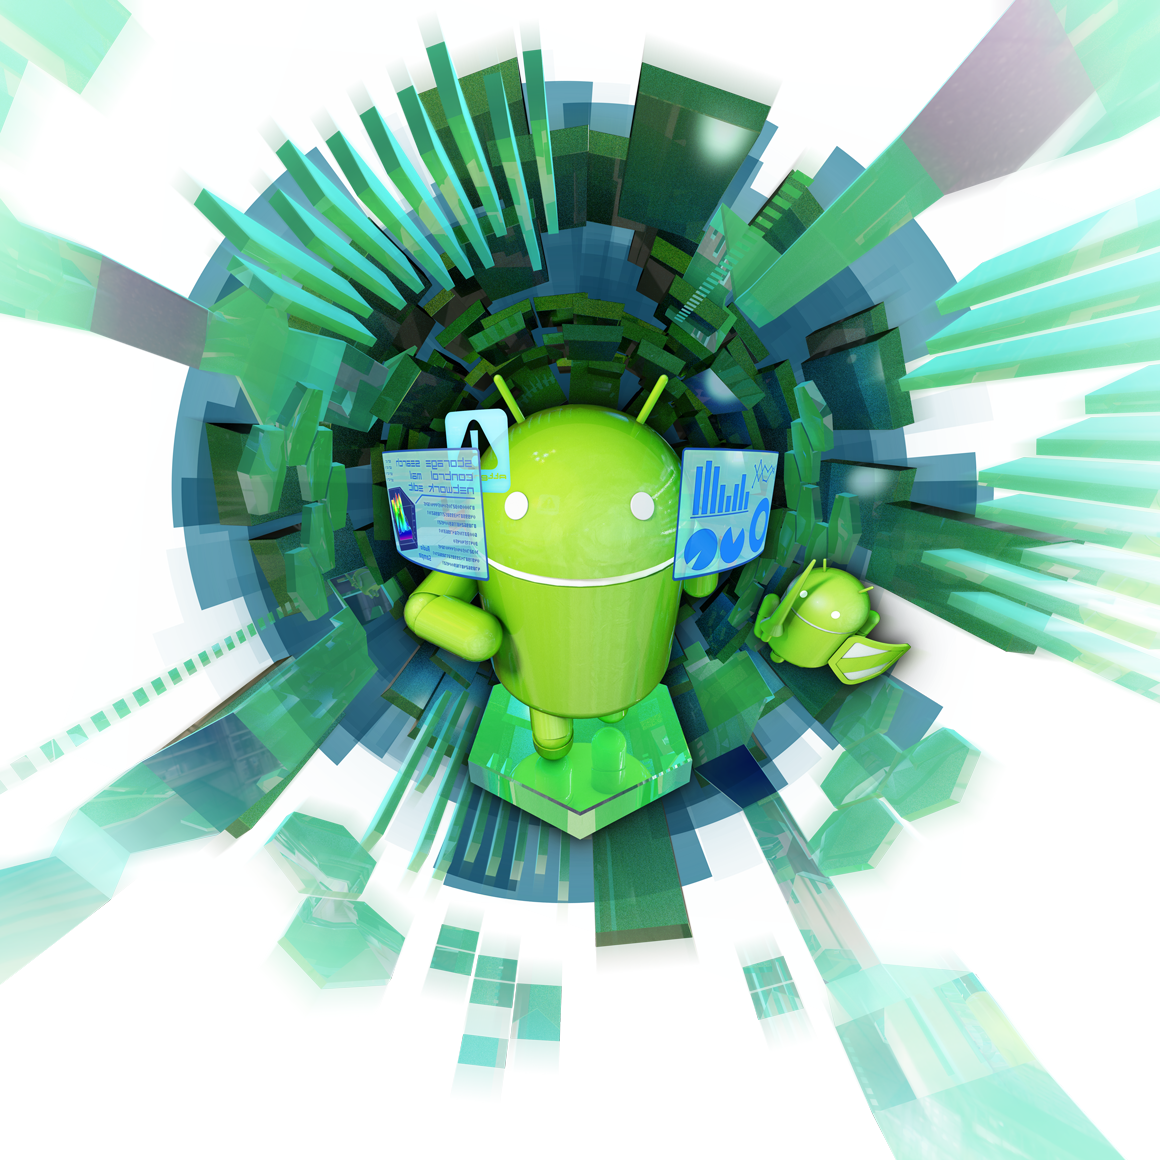
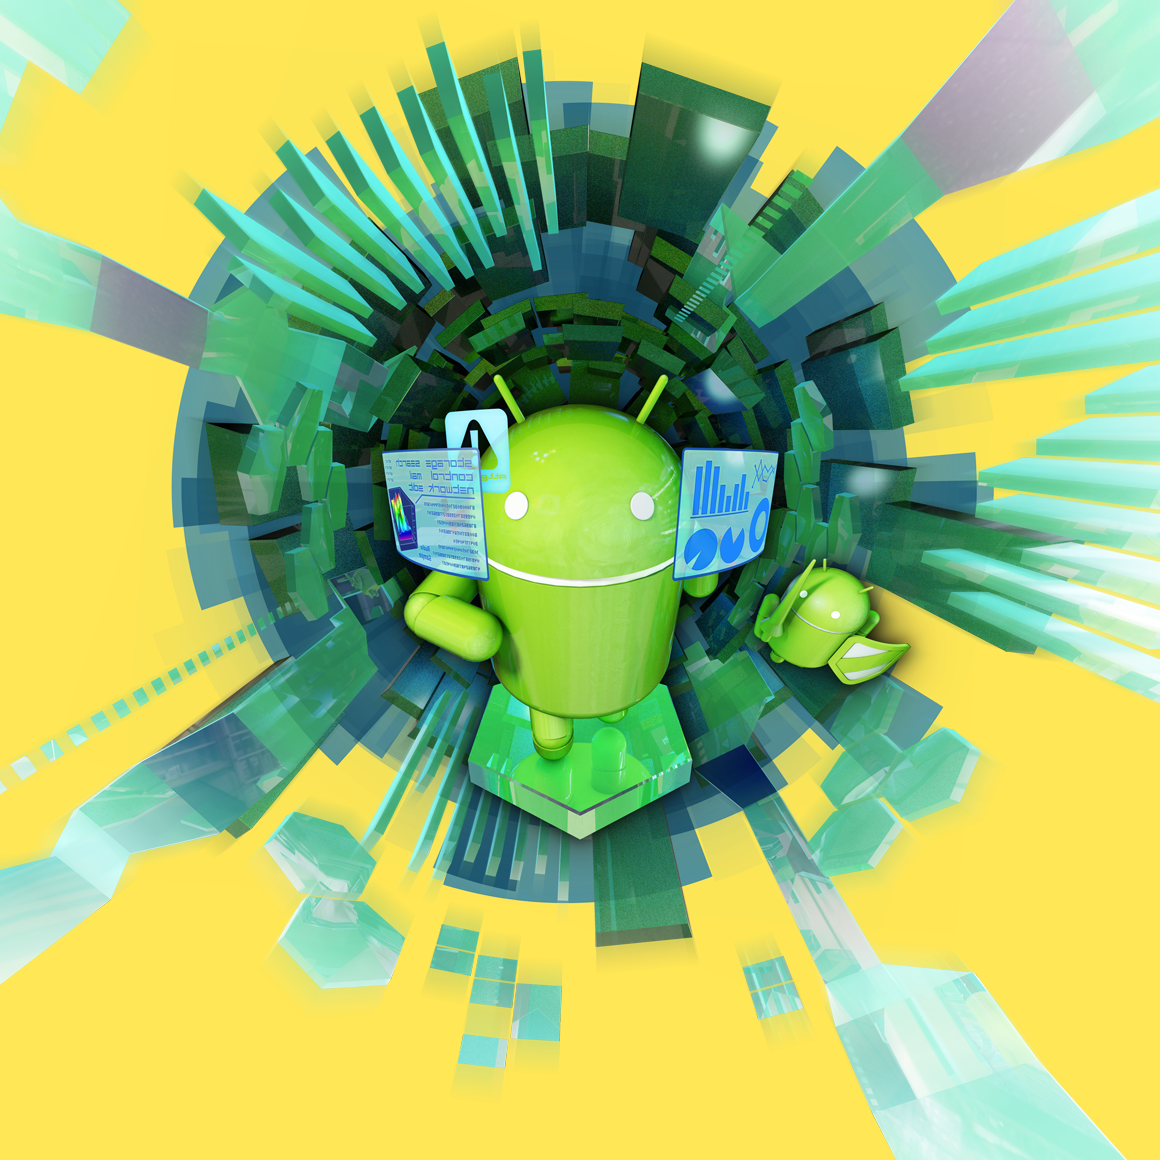
表紙背景色を黄色に。制作者追加。

diff --git a/index.rst b/index.rst
@@ -167,6 +167,8 @@ Indices and tables
 +----------+-------------+---------------------------------------------------------+
 |          | 笠原 正弘   | ソフトバンク株式会社                                    |
 +----------+-------------+---------------------------------------------------------+
+|          | 伊藤 健文   | 日本システム開発株式会社                                |
++----------+-------------+---------------------------------------------------------+
 |          | 谷田部 茂   | 株式会社フォーマルハウト・テクノ・ソリューションズ      |
 +----------+-------------+---------------------------------------------------------+
 
